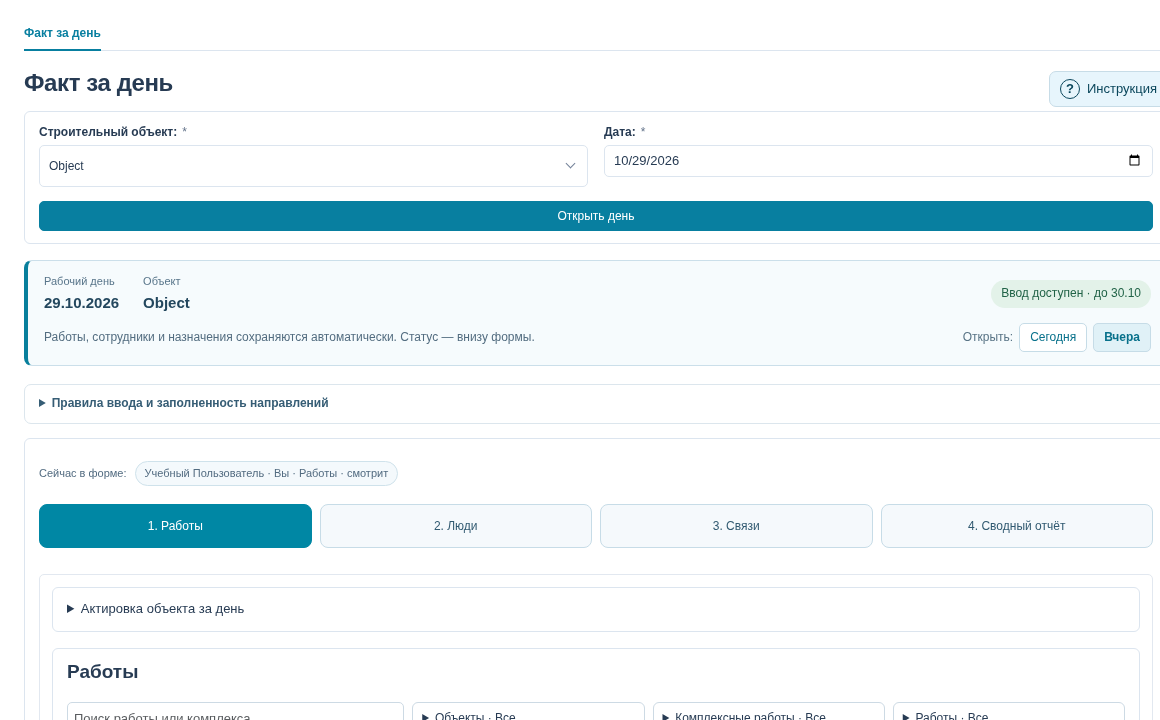
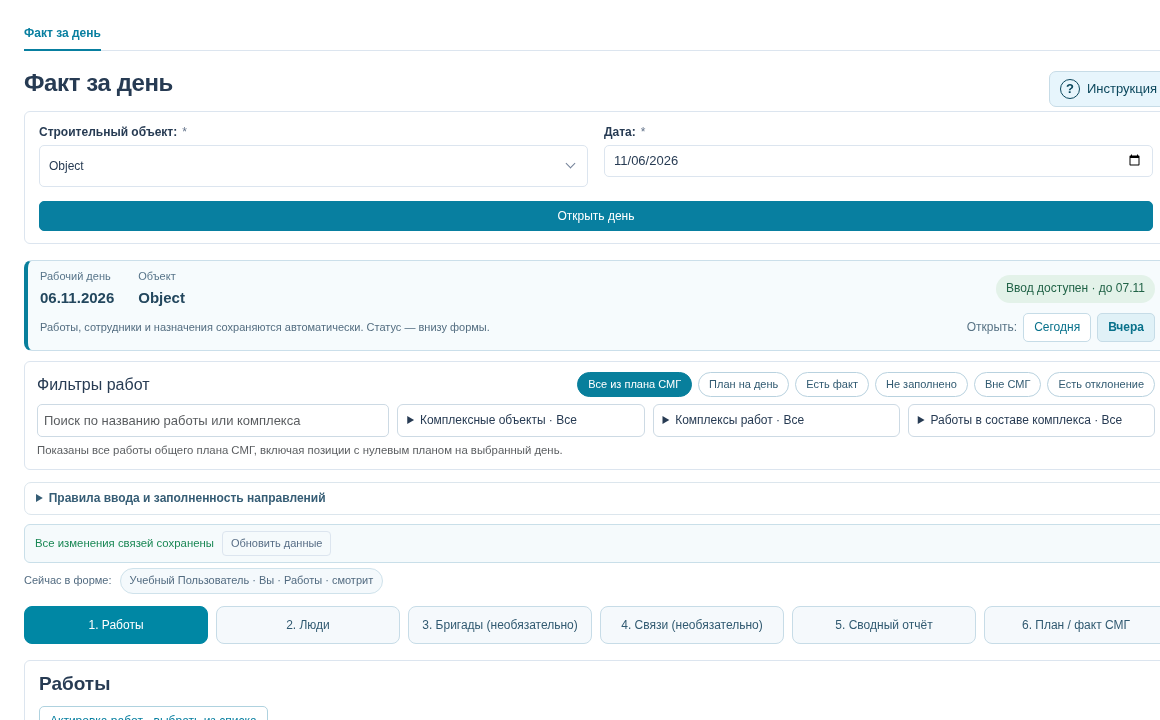
Обновить иллюстрации инструкции производства

diff --git a/tests/browser/instructions.js b/tests/browser/instructions.js
@@ -7,8 +7,8 @@ return page;}
 async function shot(page,name,selector){if(selector){const el=page.locator(selector).first();await el.scrollIntoViewIfNeeded();await el.screenshot({path:c.images+'/'+name+'.png',animations:'disabled'});}else{await page.evaluate(()=>scrollTo(0,0));const box=await page.locator('main').boundingBox();await page.screenshot({path:c.images+'/'+name+'.png',clip:{x:Math.max(0,box.x),y:Math.max(0,box.y),width:Math.min(1160,box.width),height:Math.min(720,1000-Math.max(0,box.y))},animations:'disabled'});}captured++;}
 async function help(page,slug){const original=page.url(),entry=page.locator('[data-instructions-link]');assert.equal(await entry.count(),1);assert.equal(await entry.getAttribute('target'),'_blank');const popupPromise=page.waitForEvent('popup');await entry.click();const popup=await popupPromise;await popup.waitForLoadState();assert(popup.url().includes('/instructions/'+slug+'/'));assert.equal(page.url(),original);assert(await popup.locator('.help-toc').count());await popup.close();await page.setViewportSize({width:390,height:844});const box=await entry.boundingBox();assert(box.x>=0&&box.x+box.width<=390);assert(await page.evaluate(()=>document.documentElement.scrollWidth<=innerWidth+2));await page.evaluate(()=>scrollTo(0,0));await page.screenshot({path:'/tmp/fact-ux-mobile-'+slug+'.png',fullPage:true});await page.setViewportSize({width:1440,height:1000});}
 const production=await pageFor(c.production);await help(production,'production');await shot(production,'production-start');
-const next=production.locator('[data-step-next]'),previous=production.locator('[data-step-previous]');assert.equal(await previous.isVisible(),false);await next.click();assert.equal(await previous.isVisible(),true);assert((await next.textContent()).includes('Назначить'));await previous.click();assert.equal(await previous.isVisible(),false);
-for(const d of await production.locator('[data-work-object],[data-work-package]').all())await d.evaluate(el=>el.open=true);await shot(production,'production-works','[data-work-fact-row]');for(const [step,name] of [[2,'production-people'],[3,'production-links'],[4,'production-report']]){await production.locator('[data-step="'+step+'"]').click();await shot(production,name,'[data-entry-step="'+step+'"]');}
+const next=production.locator('[data-step-next]'),previous=production.locator('[data-step-previous]');assert.equal(await previous.isVisible(),false);await next.click();assert.equal(await previous.isVisible(),true);assert((await next.textContent()).includes('К бригадам'));await previous.click();assert.equal(await previous.isVisible(),false);
+for(const d of await production.locator('[data-work-object],[data-work-package]').all())await d.evaluate(el=>el.open=true);await shot(production,'production-works','[data-work-fact-row]');for(const [step,name] of [[2,'production-people'],[3,'production-crews'],[4,'production-links'],[5,'production-report']]){await production.locator('[data-step="'+step+'"]').click();await shot(production,name,'[data-entry-step="'+step+'"]');}
 await production.locator('[data-step="1"]').click();const work=production.locator('[data-work-fact-row]').first(),quantity=work.locator('[name$="-actual_quantity"]'),savedQuantity=await quantity.inputValue();await quantity.fill('');await production.locator('[data-fact-error-summary]').waitFor();await production.locator('[data-step="4"]').click();await production.locator('[data-fact-error-list] button').first().click();assert.equal(await production.locator('[data-step="1"]').getAttribute('aria-current'),'step');assert.equal(await quantity.evaluate(e=>document.activeElement===e),true);await quantity.fill(savedQuantity);await production.locator('[data-autosave-state]').filter({hasText:'Все изменения сохранены'}).waitFor();
 
 const rotation=await pageFor(c.rotation);await help(rotation,'rotation');await shot(rotation,'rotation-start');await shot(rotation,'rotation-roster','[data-housing-panel=roster]');await rotation.locator('[data-housing-tab=movement]').click();await shot(rotation,'rotation-movement','[data-housing-panel=movement]');await rotation.locator('[data-housing-tab=calendar]').click();await rotation.locator('[data-calendar-table-scroll]').waitFor();await shot(rotation,'rotation-calendar','[data-housing-panel=calendar]');

diff --git a/core/instructions_content.py b/core/instructions_content.py
@@ -115,7 +115,7 @@ GUIDES = [{'slug': 'production',
                 'text': '',
                 'bullets': (),
                 'example': '',
-                'image': '',
+                'image': 'production-crews',
                 'table': None,
                 'notice': 'Бригада относится только к выбранному объекту, дате и смене. Кадровые справочники она не изменяет.'},
                {'id': 'links',
